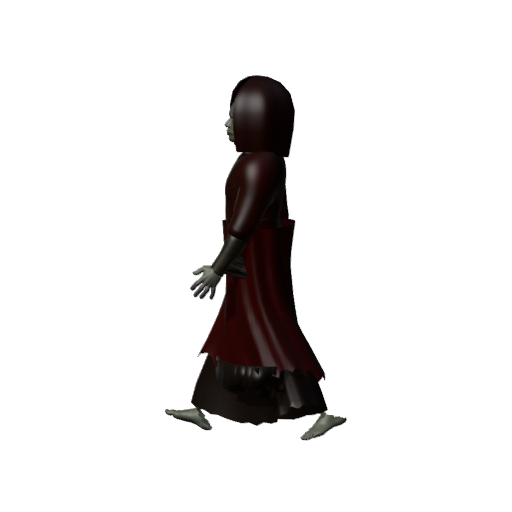
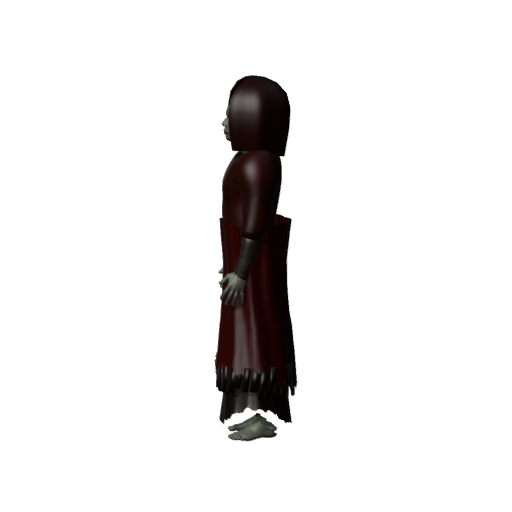
The cultist's attack and hit animations (#80)

diff --git a/art/blender/characters/cultist.py b/art/blender/characters/cultist.py
@@ -296,6 +296,9 @@ kit.animate(rig, "idle", {
     60: {"spine": (0, 0, 0), "head": (0, 0, 0)},
 })
 
+SWING = -95  # degrees an arm turns about its own X to fling up and forward (negative: forward)
+FPS = kit.FPS
+
 # Walk: legs and arms swing in opposition, in place (1 s).
 kit.animate(rig, "walk", {
     0: {"leg_l": (22, 0, 0), "leg_r": (-22, 0, 0), "arm_l": (-15, 0, 0), "arm_r": (15, 0, 0), "spine": (0, 3, 0)},
@@ -303,4 +306,26 @@ kit.animate(rig, "walk", {
     30: {"leg_l": (22, 0, 0), "leg_r": (-22, 0, 0), "arm_l": (-15, 0, 0), "arm_r": (15, 0, 0), "spine": (0, 3, 0)},
 })
 
-kit.export(model_name="cultist_combat" if COMBAT else "cultist", kind="characters", preview_colors="TEXTURE")
+# Attack (1.2 s): two fist swings, the left arm then the right, each flung up and forward from the
+# shoulder (its arms are single bones, with no elbow), its chest leaning into the blow. It starts and
+# ends in the pose idle starts in; its legs don't move.
+kit.animate(rig, "attack", {
+    0: {},
+    int(0.3 * FPS): {"arm_l": (SWING, 0, 0), "chest": (8, 0, -10), "spine": (4, 0, 0)},
+    int(0.55 * FPS): {},
+    int(0.85 * FPS): {"arm_r": (SWING, 0, 0), "chest": (8, 0, 10), "spine": (4, 0, 0)},
+    int(1.2 * FPS): {},
+}, loop=False)
+
+# Hit (0.6 s): a flinch, chest and head knocked back, then it recovers.
+kit.animate(rig, "hit", {
+    0: {},
+    int(0.17 * FPS): {"spine": (-10, 0, 0), "chest": (-10, 0, 0), "head": (-14, 0, 0)},
+    int(0.6 * FPS): {},
+}, loop=False)
+
+# Each clip goes out as its own action (see kit.export): the NLA tracks kit.animate made are dropped.
+for track in list(rig.animation_data.nla_tracks):
+    rig.animation_data.nla_tracks.remove(track)
+kit.export(model_name="cultist_combat" if COMBAT else "cultist", kind="characters", preview_colors="TEXTURE",
+           animation_mode="ACTIONS")

diff --git a/art/blender/lib/kit.py b/art/blender/lib/kit.py
@@ -598,10 +598,12 @@ def render_previews(model_name, views=VIEWS, size=512, colors="MATERIAL"):
     return paths
 
 
-def export(model_name, kind, previews=True, preview_colors="MATERIAL"):
+def export(model_name, kind, previews=True, preview_colors="MATERIAL", animation_mode="NLA_TRACKS"):
     """Writes assets/models/<kind>/<model>.glb, and preview renders unless `previews` is False.
 
-    Pass `preview_colors="TEXTURE"` for a textured model, so its previews show its textures.
+    Pass `preview_colors="TEXTURE"` for a textured model, so its previews show its textures. Pass
+    `animation_mode="ACTIONS"` (after removing the rig's NLA tracks) to export each clip as its own
+    action: with NLA tracks, Blender 5's exporter can let one clip leak into another.
     """
     out = ASSETS_DIR / kind / f"{model_name}.glb"
     out.parent.mkdir(parents=True, exist_ok=True)
@@ -611,7 +613,7 @@ def export(model_name, kind, previews=True, preview_colors="MATERIAL"):
         export_yup=True,
         export_apply=True,
         export_animations=True,
-        export_animation_mode="NLA_TRACKS",
+        export_animation_mode=animation_mode,
     )
     print(f"KIT: exported {out}")
     if previews:
